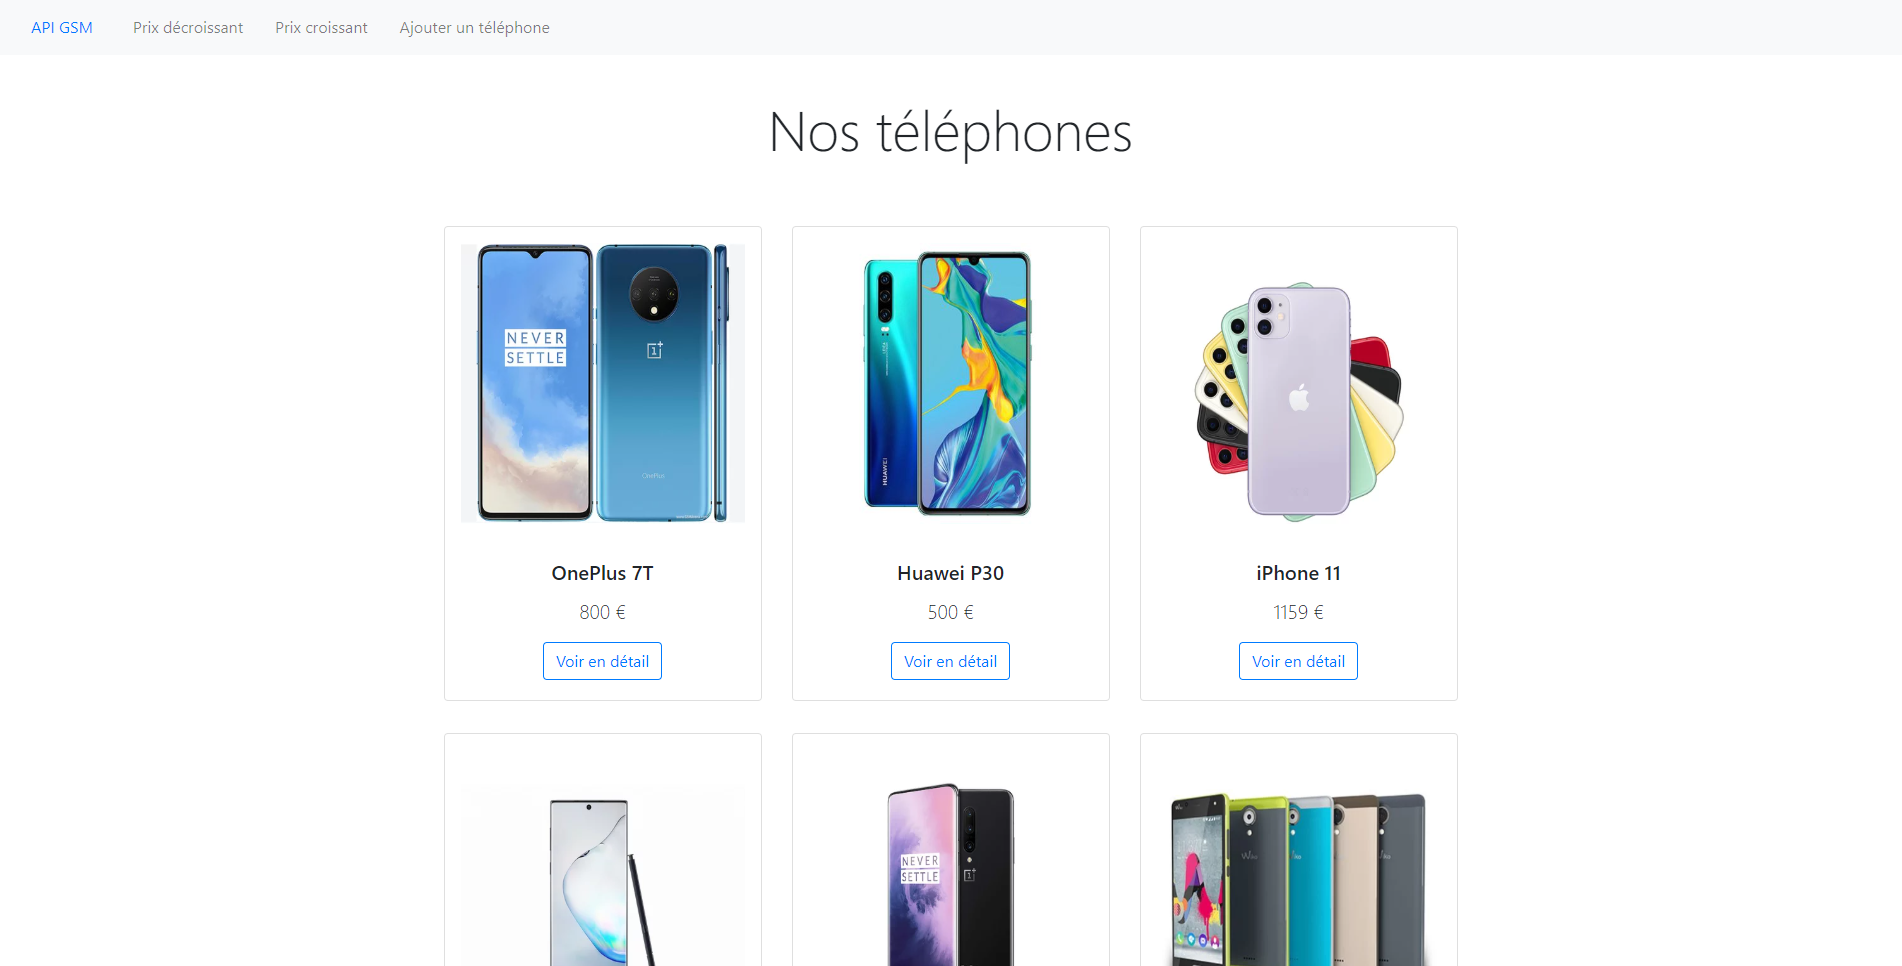
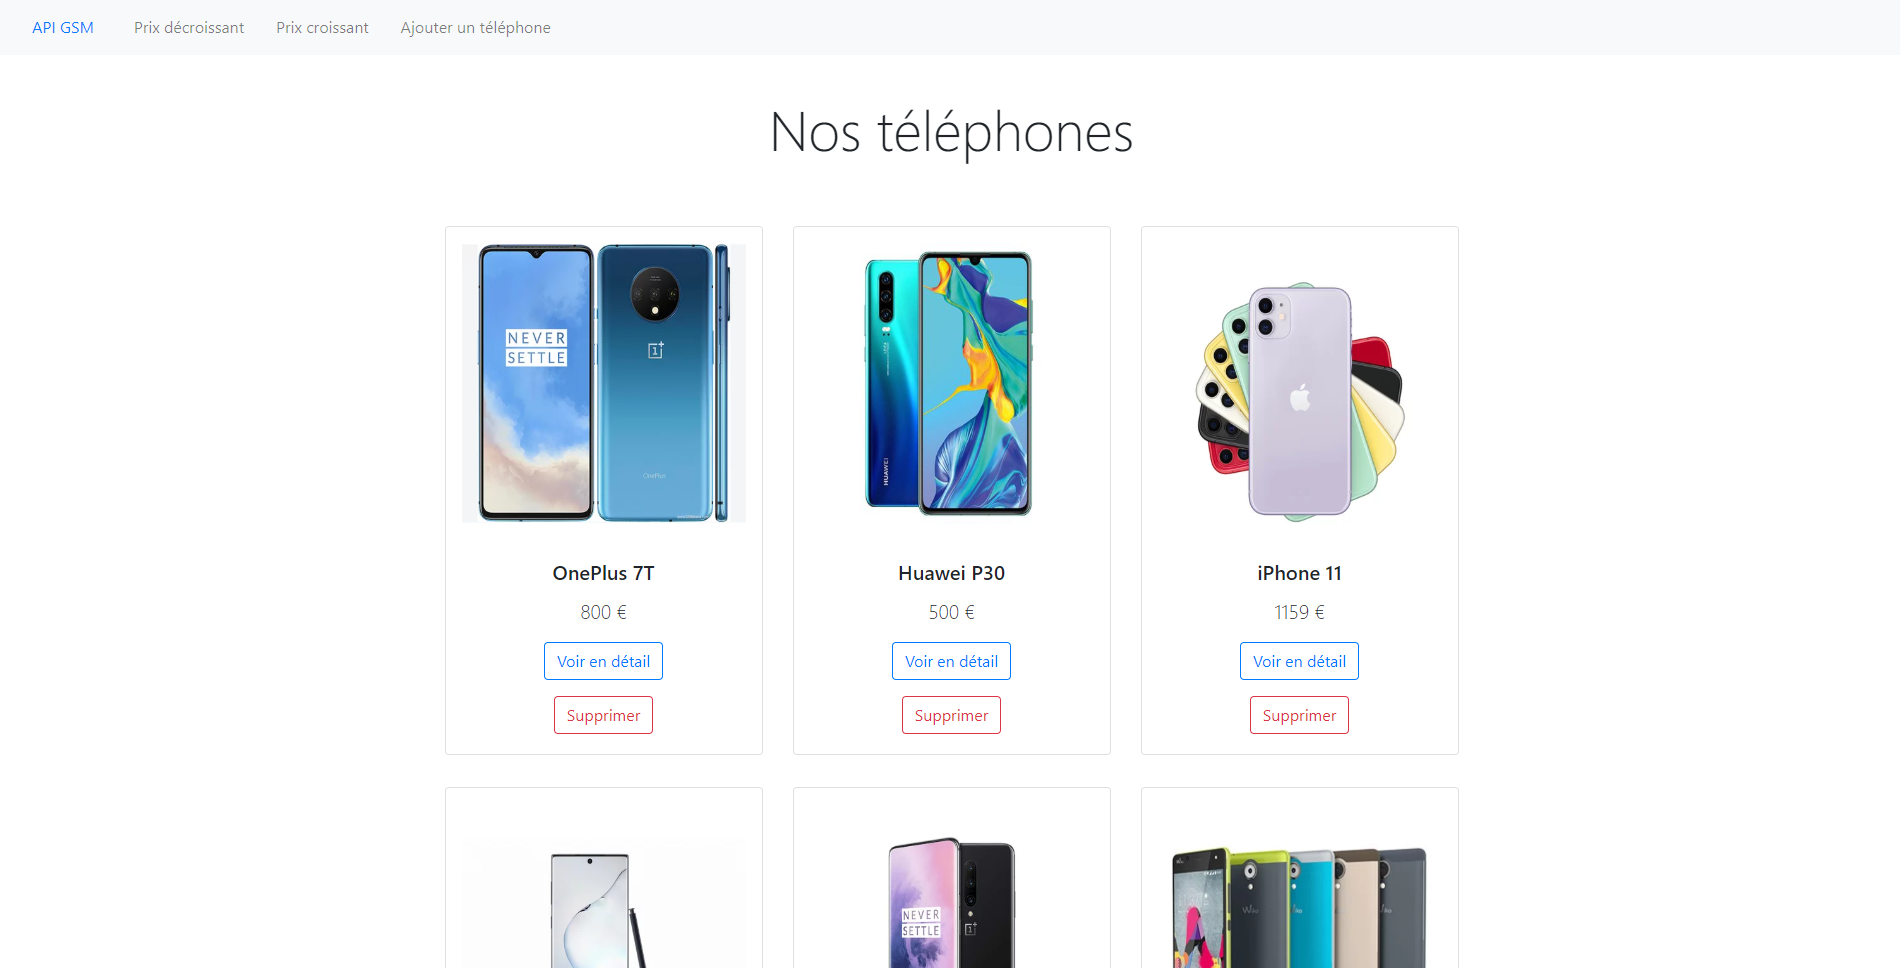
:sparkles: Add delete button on card phone

diff --git a/app/gsm/src/pages/AddPhone.jsx b/app/gsm/src/pages/AddPhone.jsx
@@ -1,6 +1,5 @@
 import React from 'react';
 import Navbar from '../components/Navbar';
-import PhonesAPI from '../services/PhonesAPI';
 import { useForm } from 'react-hook-form';
 import Axios from 'axios';
 
@@ -17,51 +16,51 @@ const AddPhone = () => {
             <div className="container pt-5 mb-5">
                 <h2 className="text-center my-5 display-4">Ajouter un tel</h2>
                 <form onSubmit={handleSubmit(onSubmit)}>
-                <div className="form-group">
-                    <label htmlFor="model">Model</label>
-                    <input ref={register} type="text" name="model" className="form-control" id="model" aria-describedby="model"/>
-                </div>
-                <div className="form-group">
-                    <label htmlFor="storage">Stockage</label>
-                    <input ref={register} type="number" name="storage" className="form-control" id="storage" aria-describedby="model" min="0"/>
-                </div>
-                <div className="form-group">
-                    <label htmlFor="ram">Ram</label>
-                    <input ref={register} type="number" name="ram" className="form-control" id="ram" aria-describedby="ram" min="0"/>
-                </div>
-                <div className="form-group">
-                    <label htmlFor="release">Année de sortie</label>
-                    <input ref={register} type="number" name="release" className="form-control" id="release" aria-describedby="release" min="0"/>
-                </div>
-                <div className="form-group">
-                    <label htmlFor="inch">Taille (pouce)</label>
-                    <input ref={register} type="number" name="inch" className="form-control" id="inch" aria-describedby="inch" min="0"/>
-                </div>
-                <div className="form-group">
-                    <label htmlFor="screenType">Type d'écran</label>
-                    <input ref={register} type="text" name="screenType" className="form-control" id="screenType" aria-describedby="screenType"/>
-                </div>
-                <div className="form-group">
-                    <label htmlFor="os">OS</label>
-                    <input ref={register} type="text" name="os" className="form-control" id="os" aria-describedby="os"/>
-                </div>
-                <div className="form-group">
-                    <label htmlFor="processor">Processeur</label>
-                    <input ref={register} type="text" name="processor" className="form-control" id="processor" aria-describedby="processor"/>
-                </div>
-                <div className="form-group">
-                    <label htmlFor="price">Prix</label>
-                    <input ref={register} type="number" name="price" className="form-control" id="price" aria-describedby="price" min="0" />
-                </div>
-                <div className="form-group">
-                    <label htmlFor="imgLink">Image</label>
-                    <input ref={register} type="text" name="imgLink" className="form-control" id="imgLink" aria-describedby="imgLink"/>
-                </div>
-                <div className="form-group">
-                    <label htmlFor="brand">Marque</label>
-                    <input ref={register} type="text" name="brand" className="form-control" id="brand" aria-describedby="brand"/>
-                </div>
-                <button>Envoyer</button>
+                    <div className="form-group">
+                        <label htmlFor="model">Model</label>
+                        <input ref={register} type="text" name="model" className="form-control" id="model" aria-describedby="model"/>
+                    </div>
+                    <div className="form-group">
+                        <label htmlFor="storage">Stockage</label>
+                        <input ref={register} type="number" name="storage" className="form-control" id="storage" aria-describedby="model" min="0"/>
+                    </div>
+                    <div className="form-group">
+                        <label htmlFor="ram">Ram</label>
+                        <input ref={register} type="number" name="ram" className="form-control" id="ram" aria-describedby="ram" min="0"/>
+                    </div>
+                    <div className="form-group">
+                        <label htmlFor="release">Année de sortie</label>
+                        <input ref={register} type="number" name="release" className="form-control" id="release" aria-describedby="release" min="0"/>
+                    </div>
+                    <div className="form-group">
+                        <label htmlFor="inch">Taille (pouce)</label>
+                        <input ref={register} type="number" name="inch" className="form-control" id="inch" aria-describedby="inch" min="0"/>
+                    </div>
+                    <div className="form-group">
+                        <label htmlFor="screenType">Type d'écran</label>
+                        <input ref={register} type="text" name="screenType" className="form-control" id="screenType" aria-describedby="screenType"/>
+                    </div>
+                    <div className="form-group">
+                        <label htmlFor="os">OS</label>
+                        <input ref={register} type="text" name="os" className="form-control" id="os" aria-describedby="os"/>
+                    </div>
+                    <div className="form-group">
+                        <label htmlFor="processor">Processeur</label>
+                        <input ref={register} type="text" name="processor" className="form-control" id="processor" aria-describedby="processor"/>
+                    </div>
+                    <div className="form-group">
+                        <label htmlFor="price">Prix</label>
+                        <input ref={register} type="number" name="price" className="form-control" id="price" aria-describedby="price" min="0" />
+                    </div>
+                    <div className="form-group">
+                        <label htmlFor="imgLink">Image</label>
+                        <input ref={register} type="text" name="imgLink" className="form-control" id="imgLink" aria-describedby="imgLink"/>
+                    </div>
+                    <div className="form-group">
+                        <label htmlFor="brand">Marque</label>
+                        <input ref={register} type="text" name="brand" className="form-control" id="brand" aria-describedby="brand"/>
+                    </div>
+                    <button>Envoyer</button>
                 </form>
             </div>
         </>

diff --git a/app/gsm/src/components/PhoneDetails.jsx b/app/gsm/src/components/PhoneDetails.jsx
@@ -20,13 +20,13 @@ const PhoneDetails = ({brand, price, img, release, model, ram, inch, screenType,
             pts_size = 9}
         else if (inch.inch < 5.4 || inch.inch > 6.8){
             pts_size = 8}
-        if (screenType.screenType == "AMOLED"){
+        if (screenType.screenType === "AMOLED"){
             pts_type = 10}
-        else if (screenType.screenType == "OLED"){
+        else if (screenType.screenType === "OLED"){
             pts_type = 9}
-        else if (screenType.screenType == "LCD"){
+        else if (screenType.screenType === "LCD"){
             pts_type = 8}
-        if (os == "ios"){
+        if (os === "ios"){
             pts_os = 10}
         else
             pts_os = 9
@@ -41,13 +41,13 @@ const PhoneDetails = ({brand, price, img, release, model, ram, inch, screenType,
             pts_storage -= 1}
         let note_finale = ((1.5 * pts_tel) + (1 * pts_size) + (1 * pts_type) + (0.5 * pts_os) + (2 * pts_ram) + (
                     2 * pts_year) + (2 * pts_storage)) / 10
-
+                    
         return note_finale 
     }
 
     return ( 
         <div className="col-12 text-center mb-5">
-            <img className="mb-4" src={img} alt="Card image cap" />
+            <img className="mb-4" src={img} />
             <h1 className="h2 my-3">{brand} {model}</h1>
             <p className="text-muted">Année de sortie : {release}</p>
             <ul className="list-group list-group-flush my-3">

diff --git a/app/gsm/src/components/PhoneCard.jsx b/app/gsm/src/components/PhoneCard.jsx
@@ -1,7 +1,14 @@
 import React from 'react';
-import { Link } from 'react-router-dom';
+import { Link, Redirect } from 'react-router-dom';
+import { useForm } from 'react-hook-form';
+import Axios from 'axios';
 
 const PhoneCard = ({id, brand, price, img, model}) => {
+    const {register, handleSubmit} = useForm();
+
+    const onSubmit = data => Axios
+        .delete(`http://localhost:8080/api/deletePhone/${data.model}`, data);
+
     return ( 
         <div className="col-4">
             <div className="card my-3">
@@ -9,7 +16,12 @@ const PhoneCard = ({id, brand, price, img, model}) => {
                 <div className="card-body text-center">
                     <h5 className="card-title">{brand} {model}</h5>
                     <p className="card-tex lead">{price} &euro;</p>
-                    <Link to={`/telephone/${id}`}>Voir en détail</Link>
+                    <Link className="btn btn-outline-primary" to={`/telephone/${id}`}>Voir en détail</Link>
+                    <form onSubmit={handleSubmit(onSubmit)}>
+                        <input ref={register} type="text" name="model" className="form-control" id="model" aria-describedby="model" defaultValue={id} hidden/>
+                        <Link></Link>
+                        <button className="btn btn-outline-danger mt-3">Supprimer</button>
+                    </form>
                 </div>
             </div>
         </div>

diff --git a/app/gsm/src/components/PhonesList.jsx b/app/gsm/src/components/PhonesList.jsx
@@ -5,7 +5,7 @@ import { useEffect } from 'react';
 import PhoneCard from './PhoneCard';
 import PhoneDetails from './PhoneDetails';
 
-const PhonesList = ({ id, order, brand }) => {
+const PhonesList = ({ id, order, brand, query }) => {
 
     const [phones, setPhones] = useState([]);    
     
@@ -26,7 +26,10 @@ const PhonesList = ({ id, order, brand }) => {
             } else if (brand) {
                 const data = await PhonesAPI.fetchPhonesBrand(brand);
                 setPhones(data);
-            } 
+            } else if (query) {
+                const data = await PhonesAPI.fetchPhonesQuery(query);
+                setPhones(data);
+            }
             else {
                 const data = await PhonesAPI.fetchPhones();
                 setPhones(data);
@@ -38,7 +41,7 @@ const PhonesList = ({ id, order, brand }) => {
 
     useEffect(() => {
         fetchPhones();
-    },[id, order, brand])    
+    },[id, order, brand, query])    
     return ( 
         <>
             <div className="mx-5">

diff --git a/app/gsm/src/components/Navbar.jsx b/app/gsm/src/components/Navbar.jsx
@@ -16,11 +16,14 @@ const Navbar = () => {
                     <li className="nav-item mr-3">
                         <Link to={`/telephones/order/asc`} className="nav-link">Prix croissant</Link>
                     </li>
+                    <li className="nav-item mr-3">
+                        <Link to={`/addPhone`} className="nav-link">Ajouter un téléphone</Link>
+                    </li>
                 </ul>
-                <form action="" className="form-inline my-2 my-lg-0">
+                {/* <form action="" className="form-inline my-2 my-lg-0">
                     <input type="form-control mr-sm-2" type="search" placeholder="Search" aria-label="Search" />
                     <button className="btn btn-outline-success my-2 my-sm-0" type="submit">Search</button>
-                </form>
+                </form> */}
             </div>
         </nav>
     );

diff --git a/index.js b/index.js
@@ -7,9 +7,10 @@ const app = express();
 
 app.use(bodyParser.json());
 
-app.use(function(req, res, next) {
-  res.header("Access-Control-Allow-Origin", "http://localhost:3000"); // update to match the domain you will make the request from
-  res.header("Access-Control-Allow-Headers", "Origin, X-Requested-With, Content-Type, Accept");
+app.use(function (req, res, next) {
+  res.header("Access-Control-Allow-Origin", "*");
+  res.header("Access-Control-Allow-Methods", "GET, PUT, POST, DELETE");
+  res.header("Access-Control-Allow-Headers", "Origin, X-Requested-With, Content-Type, Accept, Authorization");
   next();
 });
 

diff --git a/app/gsm/src/pages/HomePage.jsx b/app/gsm/src/pages/HomePage.jsx
@@ -5,13 +5,14 @@ import Navbar from '../components/Navbar';
 const HomePage = ({ match }) => {
     const { order } = match.params;
     const { brand } = match.params;
+    const { query } = match.params;    
     
     return ( 
         <>
             <Navbar />
             <div className="container pt-5 mb-5">
                 <h2 className="text-center my-5 display-4">Nos téléphones</h2>
-                <PhonesList order={order} brand={brand}/>
+                <PhonesList order={order} brand={brand} query={query}/>
             </div>
         </>
     );

diff --git a/app/gsm/src/App.js b/app/gsm/src/App.js
@@ -15,6 +15,7 @@ function App() {
         <Route exact path="/addPhone" component={AddPhone} />
         <Route exact path="/telephones/order/:order" component={HomePage} />
         <Route exact path="/telephones/brand/:brand" component={HomePage} />
+        <Route exact path="/telephones/query/:query" component={HomePage} />
         <Route exact path="/telephone/:id" component={PhonePage} />
         <Route exact path="/" component={HomePage} />
       </Switch>

diff --git a/app/gsm/src/services/PhonesAPI.js b/app/gsm/src/services/PhonesAPI.js
@@ -30,4 +30,10 @@ function fetchPhone(id) {
         .then(response => response.data);
 };
 
-export default { fetchPhones, fetchPhone, fetchPhonesDesc, fetchPhonesAsc, fetchPhonesBrand };
+function fetchPhonesQuery(query) {
+    return Axios
+        .get(`http://localhost:8080/api/telephones?q=${query}`)
+        .then(response => response.data);
+};
+
+export default { fetchPhones, fetchPhone, fetchPhonesDesc, fetchPhonesAsc, fetchPhonesBrand, fetchPhonesQuery };
